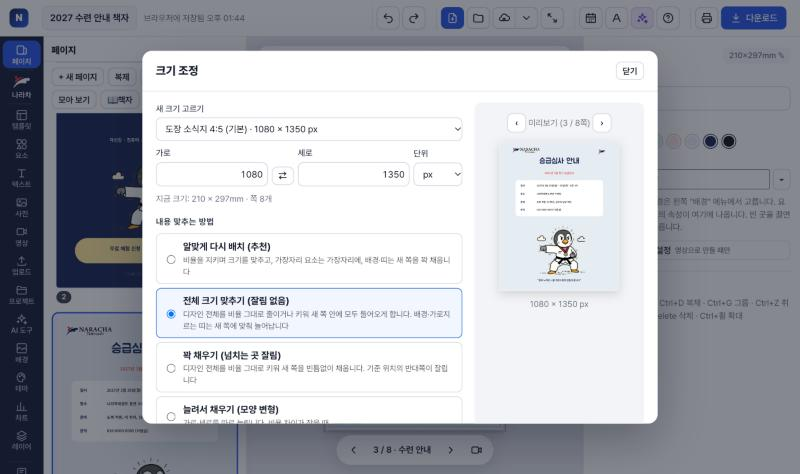
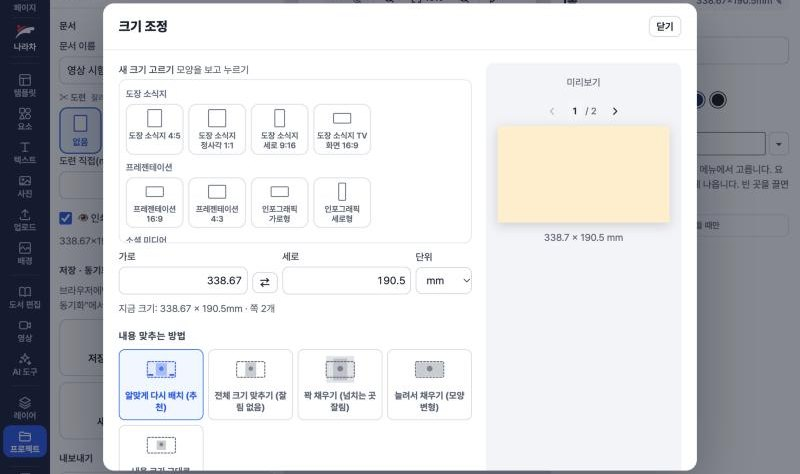
그림으로 고르기 마무리(넘김 효과 견본·고르기 창, 크기 조정 모양 카드, 상장·출석부 안내 줄임, 달력 선 굵기), AI 모델 카드 연결, 매뉴얼·작업인계 (20261123.1759)

diff --git a/app.js b/app.js
@@ -1638,7 +1638,7 @@ function renderVideoSide(body) {
     h = videoTplHTML();
   } else {
     h = `<div class="pk-lb">⏱ 기본 장면 길이</div>${proxyPick('#vdDur', Number(V.dur), [2, 3, 4, 5, 6, 7, 8, 10].map(v => [v, '', v + '초']), 'txt')}<select id="vdDur" hidden>${[2, 3, 4, 5, 6, 7, 8, 10].map(v => `<option value="${v}" ${Number(V.dur) === v ? 'selected' : ''}>${v}초</option>`).join('')}</select>
-    <div class="grid2"><label class="f"><span>기본 넘김 효과</span><select id="vdTrans">${VIDEO.TRANS.map(([v, t]) => `<option value="${v}" ${V.trans === v ? 'selected' : ''}>${t}</option>`).join('')}</select></label></div>
+    <div class="grid2"></div><div class="pk-lb">◆ 기본 넘김 효과 <small>장면이 바뀔 때 — 쪽마다 바꾸려면 타임라인의 ◆</small></div><div class="pk trmini">${VIDEO.TRANS_CATS.map(([ck, ct, vs]) => vs.map(v => { const nm = (VIDEO.TRANS.find(t => t[0] === v) || [0, v])[1], u = trStill(v), on = V.trans === v; return `<button type="button" class="pk-b${on ? ' on' : ''}" data-proxy="#vdTrans" data-val="${v}" title="${esc(ct + ' — ' + nm)}"><span class="pk-ic">${u ? `<img src="${u}" alt="">` : '◆'}</span><span class="pk-t">${esc(nm)}</span></button>`; }).join('')).join('')}</div><select id="vdTrans" hidden>${VIDEO.TRANS.map(([v, t]) => `<option value="${v}" ${V.trans === v ? 'selected' : ''}>${t}</option>`).join('')}</select>
     <div class="grid2"></div><div class="pk-lb">⇄ 기본 넘김 길이</div>${proxyPick('#vdTurn', Number(V.turn), [[0.3, '🐇', '0.3초', '아주 빠르게'], [0.5, '', '0.5초', '빠르게'], [0.8, '▶', '0.8초', '보통'], [1, '', '1초'], [1.2, '🐢', '1.2초', '천천히']], 'txt')}<select id="vdTurn" hidden>${[0.3, 0.5, 0.8, 1, 1.2].map(v => `<option value="${v}" ${Number(V.turn) === v ? 'selected' : ''}>${v}</option>`).join('')}</select>
     <div class="pk-lb">🎞 화질</div>${proxyPick('#vdQ', V.q === '720' || V.q === '2160' ? V.q : '1080', [['720', '📱', '720p', '가볍게 — 휴대폰·단톡방'], ['1080', '💻', '1080p', '기본 — 유튜브·밴드'], ['2160', '📺', '4K', '큰 TV']], 'txt')}<select id="vdQ" hidden><option value="1080" ${V.q !== '720' && V.q !== '2160' ? 'selected' : ''}>1080</option><option value="720" ${V.q === '720' ? 'selected' : ''}>720</option><option value="2160" ${V.q === '2160' ? 'selected' : ''}>2160</option></select>
     <div class="grid2"><div><div class="pk-lb">초당 장면 수</div>${proxyPick('#vdFps', Number(V.fps || 30), [[24, '🎬', '24', '24fps — 영화 느낌'], [30, '▶', '30', '30fps — 기본'], [60, '✨', '60', '60fps — 부드럽게']], 'txt')}<select id="vdFps" hidden><option value="30" ${Number(V.fps || 30) === 30 ? 'selected' : ''}>30</option><option value="60" ${Number(V.fps) === 60 ? 'selected' : ''}>60</option><option value="24" ${Number(V.fps) === 24 ? 'selected' : ''}>24</option></select></div><label class="vd-chk" style="align-self:end"><input type="checkbox" id="vdLoop" ${V.loop ? 'checked' : ''}> 끝나면 첫 장면으로 <small>(TV 반복)</small></label></div>
@@ -2545,6 +2545,9 @@ function transSamples(i) {
   const card = (c, col, t) => { const g = c.getContext('2d'); g.fillStyle = col; g.fillRect(0, 0, TW, TH); g.strokeStyle = 'rgba(255,255,255,.16)'; g.lineWidth = 5; for (let k = -TH; k < TW; k += 13) { g.beginPath(); g.moveTo(k, TH); g.lineTo(k + TH, 0); g.stroke(); } g.fillStyle = '#fff'; g.font = `800 ${Math.round(Math.min(TW, TH) * 0.5)}px sans-serif`; g.textAlign = 'center'; g.textBaseline = 'middle'; g.fillText(t, TW / 2, TH / 2 + 1); };
   card(a, '#24304f', 'A'); card(b, '#d8453a', 'B'); return { a, b, TW, TH };
 }
+/* 넘김 효과 정지 견본 그림 (A·B 카드 사이 중간 모습) — 영상 설정의 기본 넘김 고르기에 씀 */
+const TR_STILL = new Map();
+function trStill(v) { const AR = doc.w / doc.h, key = v + '|' + (AR >= 1 ? 'w' : 't'); if (TR_STILL.has(key)) return TR_STILL.get(key); let u = ''; try { const S = transSamples(-1), c = document.createElement('canvas'); c.width = S.TW; c.height = S.TH; const g = c.getContext('2d'); VIDEO.trans(g, S.a, S.b, v === 'none' ? 0.6 : 0.45, v, S.TW, S.TH, '#ffffff', 7, VIDEO.TRANS_DIRS && VIDEO.TRANS_DIRS[v] ? (v === 'up' ? 'u' : 'l') : ''); u = c.toDataURL('image/png'); } catch (e) {} TR_STILL.set(key, u); return u; }
 function openTransPop(i, anchor) {
   $('#trPop') && $('#trPop').remove(); const pg = doc.pages[i], V = vset(), r = anchor.getBoundingClientRect(), S = transSamples(i);
   const cur0 = () => pg.vtrans || V.trans, nameOf = v => (VIDEO.TRANS.find(t => t[0] === v) || [0, v])[1], catOf = v => (VIDEO.TRANS_CATS.find(c => c[2].includes(v === 'up' ? 'slide' : v)) || VIDEO.TRANS_CATS[0])[0];
@@ -3485,11 +3488,11 @@ function renderInspector() {
     <h3>배경</h3><div class="swrow">${['#ffffff', '#FFE89A', '#E6EDF2', '#DDF3EA', '#FDE7E4', '#F0EBFB', '#1E2B5A', '#1a1a1a'].map(c => `<button class="swb" data-pgbg="${c}" style="background:${c}" title="${c}"></button>`).join('')}</div>
     <label class="f"><span>직접 고르기</span><input type="color" data-k="pg.bg" value="${/^#[0-9a-f]{6}$/i.test(pg.bg) ? pg.bg : '#ffffff'}"></label>
     <p class="hint">그라데이션·패턴 배경은 왼쪽 "배경" 메뉴에서 고릅니다. 요소를 누르면 그 요소의 속성이 여기에 나옵니다. 빈 곳을 끌면 여러 요소를 함께 고릅니다.</p>
-    <details class="fx pgvid" ${tlOn() || (doc.video && doc.video.isCopy) ? 'open' : ''}><summary><span class="anim-h"><svg class="ic"><use href="#i-video"/></svg>영상 장면 설정</span> <small class="hint" style="margin:0">영상으로 만들 때만</small></summary><div class="grid2">${F('보여 주는 시간', 'pg.vdur', pg.vdur || vset().dur, { type: 'slider', min: 1, max: Math.max(20, Math.ceil(Number(pg.vdur || 0))), step: 0.5, unit: '초', def: vset().dur })}${F('다음으로 넘김', 'pg.vtrans', pg.vtrans || '', { type: 'select', options: [['', '기본 (' + VIDEO.TRANS.find(t => t[0] === vset().trans)[1] + ')']].concat(VIDEO.TRANS) })}</div><div class="grid2">${F('넘김 길이', 'pg.vturn', pg.vturn || vset().turn, { type: 'slider', min: 0.2, max: 2, step: 0.1, unit: '초', def: vset().turn })}</div><div class="pk-lb">🎥 카메라</div>${proxyPick('select[data-k="pg.vcam"]', pg.vcam || '', [['', '⏹', '없음'], ['in', '🔍+', '다가가기', '천천히 다가가기'], ['out', '🔍−', '물러나기', '천천히 물러나기'], ['left', '⬅', '왼쪽', '왼쪽으로 흐르기'], ['right', '➡', '오른쪽', '오른쪽으로 흐르기']], 'txt')}<div hidden>${F('카메라', 'pg.vcam', pg.vcam || '', { type: 'select', options: [['', '없음']].concat(VIDEO.CAMS.slice(1)) })}</div><div class="row" style="gap:6px"><button class="btn sm" id="pgVplay"><svg class="ic"><use href="#i-play"/></svg>이 쪽부터 미리보기</button><button class="btn sm" id="pgVtab">영상 메뉴</button></div></details>
+    <details class="fx pgvid" ${tlOn() || (doc.video && doc.video.isCopy) ? 'open' : ''}><summary><span class="anim-h"><svg class="ic"><use href="#i-video"/></svg>영상 장면 설정</span> <small class="hint" style="margin:0">영상으로 만들 때만</small></summary><div>${F('보여 주는 시간', 'pg.vdur', pg.vdur || vset().dur, { type: 'slider', min: 1, max: Math.max(20, Math.ceil(Number(pg.vdur || 0))), step: 0.5, unit: '초', def: vset().dur })}</div><div><div class="pk-lb">◆ 다음으로 넘김</div><button type="button" class="pk-b pk-trbtn" id="pgTrPick" title="넘김 효과 고르기 — 견본이 움직입니다">${(() => { const v = pg.vtrans || vset().trans, u = trStill(v); return `${u ? `<img src="${u}" alt="">` : ''}<span class="pk-t">◆ ${esc((VIDEO.TRANS.find(t => t[0] === v) || [0, v])[1])}${pg.vtrans ? '' : ' (기본)'}</span>`; })()}</button></div><div hidden>${F('다음으로 넘김', 'pg.vtrans', pg.vtrans || '', { type: 'select', options: [['', '기본']].concat(VIDEO.TRANS) })}</div><div class="grid2">${F('넘김 길이', 'pg.vturn', pg.vturn || vset().turn, { type: 'slider', min: 0.2, max: 2, step: 0.1, unit: '초', def: vset().turn })}</div><div class="pk-lb">🎥 카메라</div>${proxyPick('select[data-k="pg.vcam"]', pg.vcam || '', [['', '⏹', '없음'], ['in', '🔍+', '다가가기', '천천히 다가가기'], ['out', '🔍−', '물러나기', '천천히 물러나기'], ['left', '⬅', '왼쪽', '왼쪽으로 흐르기'], ['right', '➡', '오른쪽', '오른쪽으로 흐르기']], 'txt')}<div hidden>${F('카메라', 'pg.vcam', pg.vcam || '', { type: 'select', options: [['', '없음']].concat(VIDEO.CAMS.slice(1)) })}</div><div class="row" style="gap:6px"><button class="btn sm" id="pgVplay"><svg class="ic"><use href="#i-play"/></svg>이 쪽부터 미리보기</button><button class="btn sm" id="pgVtab">영상 메뉴</button></div></details>
     <details class="bk-more"><summary>⌨ 단축키</summary><div class="kbd-grid">${[['T', '글자 넣기'], ['P', '펜'], ['Ctrl+D', '복제'], ['Ctrl+G', '묶기'], ['Ctrl+Z', '되돌리기'], ['← → ↑ ↓', '옮기기'], ['Delete', '지우기'], ['Ctrl+휠', '확대']].map(([k, t]) => `<span><kbd>${k}</kbd>${t}</span>`).join('')}</div></details>`;
     if (doc.bookCover) { const v9 = ins.querySelector('.pgvid'); if (v9) v9.remove(); const h9 = ins.querySelector('h2'); if (h9 && !ins.querySelector('.bk-pginfo')) h9.insertAdjacentHTML('afterend', '<div class="bk-pginfo"><b>표지 펼침면</b><span>뒷날개·뒤표지·책등·앞표지·앞날개 한 장 — 책등·날개는 왼쪽 「도서 편집」에서 맞춥니다</span></div>'); }
     if (doc.book && doc.book.bookMode) { const v9 = ins.querySelector('.pgvid'); if (v9) v9.remove(); const kind9 = pg.toc ? ['차례 쪽', '장·절 제목에서 저절로 만들어집니다'] : pg.blank ? ['비워 둔 쪽', '다음 장을 오른쪽(홀수) 쪽에서 시작하려고 저절로 생긴 쪽입니다'] : pg.part ? ['부 나눔 쪽', '원고의 부 제목([부])에서 저절로 — 쪽 번호·머리글 없음'] : pg.flow ? (pg.chapOpen ? ['장 시작 쪽', '원고의 장 제목(#)에서 시작합니다'] : ['본문 쪽', '원고에서 저절로 짜인 쪽입니다']) : pg.back ? ['뒷붙이 쪽', '판권 등 책 끝에 붙는 쪽'] : ['직접 꾸미는 쪽', '표지·속표지처럼 자유롭게 꾸미는 쪽']; const h9 = ins.querySelector('h2'); if (h9) h9.insertAdjacentHTML('afterend', `<div class="bk-pginfo"><b>${kind9[0]}</b><span>${kind9[1]}</span>${(pg.flow || pg.toc) && !pg.blank ? '<button class="btn sm" id="pgBkStory">✎ 원고 열기</button>' : ''}</div>`); const sb9 = ins.querySelector('#pgBkStory'); if (sb9) sb9.addEventListener('click', ev => { ev.stopPropagation(); if (BK()) BK().openStory(); }); } /* 도서 편집: 쪽 종류 안내, 영상 설정은 숨김 */
-    ins.onclick = e => { if (e.target.closest('#pgVplay')) { openVideoPlayer(true); return; } if (e.target.closest('#pgVtab')) { sideTab = 'video'; renderRail(); renderSide(); return; } const b = e.target.closest('[data-pgbg]'); if (b) { pg.bg = b.dataset.pgbg; commit(); rerender(); } };
+    ins.onclick = e => { const tp = e.target.closest('#pgTrPick'); if (tp) { openTransPop(cur, tp); const w = setInterval(() => { if (!$('#trPop')) { clearInterval(w); renderInspector(); } }, 300); return; } /* 넘김 효과 고르기 창 (견본이 움직임) — 닫으면 속성 다시 */ if (e.target.closest('#pgVplay')) { openVideoPlayer(true); return; } if (e.target.closest('#pgVtab')) { sideTab = 'video'; renderRail(); renderSide(); return; } const b = e.target.closest('[data-pgbg]'); if (b) { pg.bg = b.dataset.pgbg; commit(); rerender(); } };
     return;
   }
   if (els.length > 1) {
@@ -3606,6 +3609,7 @@ function renderInspector() {
     <div class="grid2"><label class="f"><span>숫자·요일 글꼴</span>${fontPicker('s.fontNum', s.fontNum)}</label><label class="f"><span>일정 글꼴</span>${fontPicker('s.fontBody', s.fontBody)}</label></div>
     <div class="grid4">${F('일요일 색', 's.sunColor', s.sunColor, { type: 'color' })}${F('토요일 색', 's.satColor', s.satColor, { type: 'color' })}${F('날짜 색', 's.dayColor', s.dayColor, { type: 'color' })}${F('공휴일 색', 's.holColor', s.holColor || s.sunColor, { type: 'color' })}</div>
     <div class="grid4">${F('일요일 칸', 's.sunBg', s.sunBg || '#ffffff', { type: 'color' })}${F('안쪽 선', 's.line', s.line, { type: 'color' })}${F('바깥 선', 's.outer', s.outer, { type: 'color' })}${F('메모 색', 's.noteColor', s.noteColor, { type: 'color' })}</div>
+    <div class="pk-lb">선 굵기</div><div class="pk sm">${[['가늘게', 0.1, 0.3], ['보통', 0.2, 0.5], ['굵게', 0.35, 0.8], ['선 없음', 0, 0]].map(([t, a, b]) => { const on = Number(s.lineW) === a && Number(s.outerW) === b; return `<button type="button" class="pk-b${on ? ' on' : ''}" data-calln="${a},${b}" title="${t} — 안쪽 ${a} · 바깥 ${b}"><span class="pk-ic">${VSV('0 0 26 20', b ? `<rect x="2" y="2" width="22" height="16" rx="1" stroke-width="${Math.max(0.5, b * 2.2)}"/><path d="M2 10h22M9.3 2v16M16.6 2v16" stroke-width="${Math.max(0.3, a * 2.2)}"/>` : '<rect x="2" y="2" width="22" height="16" rx="1" stroke-width=".6" stroke-dasharray="1.5 1.5" opacity=".5"/>', 26, 20)}</span><span class="pk-t">${t}</span></button>`; }).join('')}</div>
     <div class="grid3">${F('안쪽 선 두께', 's.lineW', s.lineW, { type: 'number', step: 0.05, min: 0 })}${F('바깥 선 두께', 's.outerW', s.outerW, { type: 'number', step: 0.05, min: 0 })}${F('칸 여백(mm)', 's.cellPad', s.cellPad, { type: 'number', step: 0.2, min: 0 })}</div>
     <div class="row">${F('요일 줄 보이기', 's.showWd', s.showWd, { type: 'check' })}${F('공휴일 표시', 's.showHol', s.showHol, { type: 'check' })}${F('공휴일 이름', 's.showHolName', s.showHolName, { type: 'check' })}</div><div class="pk-lb">음력 표시</div>${vpick('s.lunar', s.lunar || '', [['', '<b class="pk-cell">15</b>', '안 함'], ['key', '<b class="pk-cell">15<small>음1</small></b>', '1일·15일', '음력 1일·15일만'], ['all', '<b class="pk-cell">15<small>4.8</small></b>', '매일', '매일 (작게)']])}<button class="btn sm" data-set="s.sunBg:">일요일 칸 색 없음</button>` + geo;
   } else if (el.type === 'mini') {
@@ -3645,6 +3649,7 @@ function renderInspector() {
     if (b.dataset.tfi2) { const k = b.dataset.tfi2; selEls().forEach(x => { if (x.type === 'text') x[k] = !x[k]; }); commit(); rerender(); return; }
     if (b.dataset.fp) { openFontPop(b); return; }
     if (b.dataset.toggle) { el.locked = !el.locked; commit(); renderOverlay(); renderInspector(); return; }
+    if (b.dataset.calln) { const [a, c] = b.dataset.calln.split(',').map(Number); selEls().filter(x => x.type === 'cal').forEach(x => { x.s = Object.assign({}, x.s || {}, { lineW: a, outerW: c }); }); commit(); rerender(); return; } /* 달력 선 굵기 한 번에 */
     if (b.dataset.arw) { const [a0, e0] = b.dataset.arw; selEls().filter(x => x.type === 'shape').forEach(x => { x.arrowStart = a0 === '1'; x.arrowEnd = e0 === '1'; }); commit(); rerender(); return; }
     if (b.dataset.setv != null) { const i = b.dataset.setv.indexOf(':'), k = b.dataset.setv.slice(0, i); let v; try { v = JSON.parse(b.dataset.setv.slice(i + 1)); } catch (er) { v = b.dataset.setv.slice(i + 1); } selEls().filter(x => x.type === el.type).forEach(x => setK(x, k, v)); commit(); rerender(); return; } /* 그림 고르기 단추 — 같은 종류를 여럿 골랐으면 모두 */
     if (b.dataset.set != null) { const i = b.dataset.set.indexOf(':'); const k = b.dataset.set.slice(0, i), v = b.dataset.set.slice(i + 1); if (k === 'chartColors') el.colors = v.split(',').map(s => s.trim()); else setK(el, k, v); commit(); rerender(); return; }
@@ -3710,6 +3715,7 @@ const RS_IC = (() => { const fr = '<rect x="2" y="7" width="36" height="20" rx="
   return { fit: sv(D(13, 9, 14, 16) + '<rect x="2" y="7" width="36" height="20" fill="currentColor" stroke="none" opacity=".12"/><path d="M4 24h5M31 24h5" stroke-width="2"/>'), contain: sv(D(13, 8, 14, 18)), cover: sv('<rect x="2" y="-4" width="36" height="42" fill="currentColor" stroke="none" opacity=".18"/>' + D(11, 3, 18, 28).replace(/opacity=".33"/, 'opacity=".25"')), stretch: sv(D(3, 8, 34, 18)), keep: sv(D(14, 11, 12, 12)) }; })();
 /* 그림 단추 → 숨긴 select의 값을 바꾸고 change를 보냄 (기존 처리 그대로 씀) */
 function proxyPick(sel, cur, items, cls) { return `<div class="pk${cls ? ' ' + cls : ''}">${items.map(([v, ic, t, tip]) => { const on = String(cur) === String(v); return `<button type="button" class="pk-b${on ? ' on' : ''}" data-proxy="${esc(sel)}" data-val="${esc(String(v))}" title="${esc(tip || t)}" aria-pressed="${on}">${ic ? `<span class="pk-ic">${ic}</span>` : ''}${t ? `<span class="pk-t">${t}</span>` : ''}</button>`; }).join('')}</div>`; }
+window.proxyPick = proxyPick; /* aichat.js 등 다른 파일에서도 그림 단추를 씀 */
 document.addEventListener('click', e => { const b = e.target.closest && e.target.closest('[data-proxy]'); if (!b) return; const root = b.closest('dialog') || b.closest('.inspector') || document; const t = root.querySelector(b.dataset.proxy); if (!t) return; t.value = b.dataset.val; t.dispatchEvent(new Event('input', { bubbles: true })); t.dispatchEvent(new Event('change', { bubbles: true })); b.parentElement.querySelectorAll('.pk-b').forEach(x => { x.classList.toggle('on', x === b); x.setAttribute('aria-pressed', String(x === b)); }); });
 function setK(obj, k, v) { if (k === 'size' && obj && obj.fitText && Number(v) > 0) { obj.fitMax = Number(v); fitCache.delete(obj.id); } /* 자동 맞춤 글자: 고른 크기가 새 최대 */ const ks = k.split('.'); let a = obj; for (let i = 0; i < ks.length - 1; i++) { if (a[ks[i]] == null) a[ks[i]] = ks[i + 1].match(/^\d+$/) ? [] : {}; a = a[ks[i]]; } a[ks[ks.length - 1]] = v; }
 $('#inspector').addEventListener('change', e => { const k = e.target.dataset.k; if (k === 'grp.w' || k === 'grp.h') { const ev = new Event('input', { bubbles: true }); ev.__apply = true; e.target.dispatchEvent(ev); } }, true);
@@ -5900,7 +5906,7 @@ async function openGradeImport() {
     const on = o.list.filter(x => !gradeImp.off[x.name]);
     const when = x => x.how === 'done' ? x.d : gradeImp.date;
     d.innerHTML = `<div class="dhead"><h2>📥 심사 회차에서 급증 만들기 <small>${measSrv && measSrv.att ? '관리프로그램 서버 최신' : '이 브라우저에 남은 자료'}</small></h2><button class="btn sm" data-close>닫기</button></div><div class="dbody">
-      <p class="hint" style="margin-top:0">관리프로그램 <b>심사확정자</b>는 <b>합격했다고 보고</b> 승급할 급수(관리 앱 규칙: 한 번에 2급씩)로, 이미 <b>심사 완료</b>(학적부 승급 이력)된 사람은 실제 급수로 넣습니다. 지금 재원생 · 품(단) 승급 대상만, 국기원 확정자는 뺍니다. 왼쪽 아래 다음 품(단) 응시 예정일은 ${cyc ? `<b>남은 심사 수 × ${esc(cyc)}개월</b>(상장 패널에서 고정한 값)` : '운영규정대로 사람마다(심사 한 번에 2급 · 등록 횟수로 간격 · 국기원 연한)'} 계산합니다.</p>
+      <p class="hint" style="margin-bottom:2px">✅ 심사확정자 = 합격으로 보고 승급할 급수 · 🎓 품(단) 대상만</p><details class="bk-more"><summary>ⓘ 자세히</summary><div>관리프로그램 <b>심사확정자</b>는 <b>합격했다고 보고</b> 승급할 급수(관리 앱 규칙: 한 번에 2급씩)로, 이미 <b>심사 완료</b>(학적부 승급 이력)된 사람은 실제 급수로 넣습니다. 지금 재원생 · 품(단) 승급 대상만, 국기원 확정자는 뺍니다. 왼쪽 아래 다음 품(단) 응시 예정일은 ${cyc ? `<b>남은 심사 수 × ${esc(cyc)}개월</b>(상장 패널에서 고정한 값)` : '운영규정대로 사람마다(심사 한 번에 2급 · 등록 횟수로 간격 · 국기원 연한)'} 계산합니다.</div></details>
       <div class="grid2"><label class="f"><span>심사 회차</span><select id="giYm">${RD.map(x => { const c = x.list.filter(y => y.how === 'conf').length; return `<option value="${x.ym}" ${x.ym === o.ym ? 'selected' : ''}>${x.ym.slice(2, 4)}-${x.ym.slice(5, 7)}회차 · ${c ? `확정 ${c}명` : ''}${c && x.list.length - c ? ' · ' : ''}${x.list.length - c ? `완료 ${x.list.length - c}명` : ''}${!x.list.length ? '대상 없음' : ''}${x.ym >= today ? ' (진행 중)' : ''}</option>`; }).join('')}</select></label>
       <label class="f"><span>급증 날짜 = 심사일 ${o.days.length ? `<small>(일정: ${o.days.map(md).join('·')})</small>` : ''}</span><input type="date" id="giDate" value="${esc(gradeImp.date)}"></label></div>
       <h3>${o.list.length}명 <small>${nConf ? `확정 ${nConf}명(합격 가정)` : ''}${nConf && nDone ? ' · ' : ''}${nDone ? `완료 ${nDone}명` : ''} — 체크를 풀면 빠짐</small></h3>
@@ -6261,7 +6267,7 @@ function renderAttSide(body) {
   <h3>③ 출력</h3>
   <button class="btn primary full" data-ax="printnow" ${nOn ? '' : 'disabled'} title="출석부는 왼쪽 값대로 이미 오른쪽에 만들어져 있습니다 — 출력 창으로 바로">🖨 출석부 출력하기 (${nOn}장)</button>
   <div class="row" style="gap:6px;margin-top:6px;flex-wrap:wrap"><button class="btn sm" data-ax="pdf" ${made ? '' : 'disabled'}>PDF로 저장</button><button class="btn sm" data-ax="layout" ${page() && page().att ? '' : 'disabled'} title="지금 출석부 쪽에서 글 상자·사진을 옮기거나 글꼴·크기를 바꾼 뒤 누르면, 모든 출석부에 같은 배치로">이 쪽 배치를 모든 출석부에</button>${Object.keys(A.layout).length ? '<button class="btn sm" data-ax="layoutreset">배치 처음대로</button>' : ''}</div>
-  <p class="hint" style="margin-top:8px">출석부는 왼쪽에서 고르는 대로 오른쪽에 바로 만들어집니다. 출력 창은 <b>A4 세로 맨 위·실제 크기</b>(엡손에 맞춘 기본 자리)로 열리니, 출석부 용지를 A4처럼 위쪽부터 넣으세요. 어긋나면 출력 창의 <b>위치 보정</b>(가로·세로 mm) — 이 PC가 출석부용으로 따로 기억합니다. 이름이 길면 글자가 저절로 줄어듭니다.</p></div>`;
+  <p class="hint" style="margin-bottom:2px">🖨 A4 세로 맨 위 · 실제 크기 · 용지를 위쪽부터</p><details class="bk-more"><summary>ⓘ 자세히</summary><div>출석부는 왼쪽에서 고르는 대로 오른쪽에 바로 만들어집니다. 출력 창은 <b>A4 세로 맨 위·실제 크기</b>(엡손에 맞춘 기본 자리)로 열리니, 출석부 용지를 A4처럼 위쪽부터 넣으세요. 어긋나면 출력 창의 <b>위치 보정</b>(가로·세로 mm) — 이 PC가 출석부용으로 따로 기억합니다. 이름이 길면 글자가 저절로 줄어듭니다.</div></details></div>`;
   const pv = $('#aprev'); if (pv) { const r = rows[attPrev] || {}, tmp = attPage(r, attPrev), bw = pv.clientWidth || 260, kk = bw / (doc.w * MM); pv.style.height = doc.h * MM * kk + 'px'; tmp.els.forEach(e => { if (e.attFrame) { e.hidden = false; if (!A.printFrame) e.opacity = 0.45; } });
     const draw = () => { pv.innerHTML = `<div style="transform:scale(${kk});transform-origin:0 0;position:absolute;left:0;top:0">${tmpSheet(ATT_W, ATT_H, tmp.els, '#ffffff')}</div>`; prevFitWatch(pv, ATT_W, ATT_H); }; draw(); fitTextOffscreen(tmp.els).then(() => { if (document.body.contains(pv)) draw(); }); }
 }
@@ -7007,7 +7013,7 @@ function renderResize() {
   const prevPage = ok ? resizedDoc({ w: doc.w, h: doc.h, pages: [srcPg] }, W, H, S.mode, S.A).pages[0] : null;
   const box = 220, k = ok ? Math.min(box / W, box / H) : 1;
   $('#rsBody').innerHTML = `<div class="rsgrid"><div>
-    <label class="f"><span>새 크기 고르기</span><select id="rsFmt"><option value="">직접 입력</option>${ND_GROUPS.filter(g => g[0] !== 'rec').map(([g, t]) => `<optgroup label="${t}">${FORMATS.filter(f => f[2] === g).map(f => `<option value="${f[0]}" ${S.fmt === f[0] ? 'selected' : ''}>${esc(f[1])} · ${fmtLabel(f)}</option>`).join('')}</optgroup>`).join('')}</select></label>
+    <label class="f" style="margin-bottom:2px"><span>새 크기 고르기 <small class="hint" style="margin:0">모양을 보고 누르기</small></span></label><div class="rsfmts">${ND_GROUPS.filter(g => g[0] !== 'rec').map(([g, t]) => { const L = FORMATS.filter(f => f[2] === g); if (!L.length) return ''; return `<div class="pk-lb">${esc(t)}</div>${proxyPick('#rsFmt', S.fmt, L.map(f => { const w = Number(f[3]) || 1, h = Number(f[4]) || 1, k = 22 / Math.max(w, h); return [f[0], VSV('0 0 26 26', `<rect x="${r1(13 - w * k / 2)}" y="${r1(13 - h * k / 2)}" width="${r1(Math.max(2, w * k))}" height="${r1(Math.max(2, h * k))}" rx="1" fill="#fff" stroke-width="1.1"/>`, 26, 26), String(f[1]).replace(/\s*[\d.]+\s*[×x]\s*[\d.]+.*$/, '').replace(/\s*\(.*?\)/g, ''), `${f[1]} · ${fmtLabel(f)}`]; }), 'rsf')}`; }).join('')}</div><select id="rsFmt" hidden><option value="">직접 입력</option>${ND_GROUPS.filter(g => g[0] !== 'rec').map(([g, t]) => `<optgroup label="${t}">${FORMATS.filter(f => f[2] === g).map(f => `<option value="${f[0]}" ${S.fmt === f[0] ? 'selected' : ''}>${esc(f[1])} · ${fmtLabel(f)}</option>`).join('')}</optgroup>`).join('')}</select></label>
     <div class="row"><label class="f" style="flex:1"><span>가로</span><input type="number" id="rsW" value="${S.w}" step="0.5"></label><button class="btn sm" id="rsSwap" title="가로·세로 바꾸기" style="margin-top:18px">⇄</button><label class="f" style="flex:1"><span>세로</span><input type="number" id="rsH" value="${S.h}" step="0.5"></label><label class="f" style="width:72px"><span>단위</span><select id="rsU"><option value="mm" ${S.unit === 'mm' ? 'selected' : ''}>mm</option><option value="px" ${S.unit === 'px' ? 'selected' : ''}>px</option></select></label></div>
     <p class="hint" style="margin:0">지금 크기: ${docSizeLabel(' × ')} · 쪽 ${doc.pages.length}개</p>
     <h3>내용 맞추는 방법</h3>

diff --git a/manual.js b/manual.js
@@ -79,7 +79,7 @@ window.NC_MANUAL = [
         marks: [[55.7, 41.3, '고른 글'], [83.4, 21.3, '문단 스타일 목록 — 고르면 같은 모양'], [88.8, 21.3, '+ 저장'], [94.6, 21.3, '모두에 반영']] },
       { t: '장평·글자 서식 (인디자인 문자 패널처럼)', d: '글을 고르고 오른쪽 글자 속성의 <b>장평</b>(글자 폭 50~200%)으로 글자를 좁히거나 넓힙니다 — 바로 아래 <b>80·90·95·100·110%</b> 단추로 빠르게(제목·표 글을 한 줄에 넣을 때 90%를 많이 씀). <b>세로 비율</b>은 글자 높이, <b>글자 서식 더 보기</b>에는 <b>기울기</b>(기울임체가 없는 한글 글꼴을 비스듬히), <b>낱말 간격</b>, <b>첫 줄 들여쓰기</b>(단락마다), <b>커닝</b>(비례 — 글자 모양대로 붙임), <b>작은 대문자</b>(영문)가 있습니다. 장평·세로 비율·기울기를 바꿔도 상자 크기는 그대로이고 줄바꿈만 다시 맞춰집니다. 글꼴 단추를 누르면 열리는 목록은 <b>같은 단추를 한 번 더 누르면</b> 닫힙니다.', img: 'm65-text-scale.jpg',
         marks: [[74, 16, '장평'], [79, 24.3, '빠른 장평 단추'], [76, 30, '글자 서식 더 보기'], [45.6, 54.4, '고른 글']] },
-      { t: '크기 바꾸기 (포스터 → SNS 등)', d: '위 막대 문서 이름 옆 <b>크기 표시</b>(또는 <b>⋯ 더보기 → 크기 조정</b>, 오른쪽 속성의 크기 표시)에서 새 크기를 고르고 내용 맞추는 방법을 고릅니다: <b>알맞게 다시 배치</b>(추천) · <b>전체 크기 맞추기</b>(잘림 없음) · <b>꽉 채우기</b>(넘치는 곳 잘림) · 늘려서 채우기 · 크기 그대로. 기준 위치 9곳과 쪽마다 미리 보기로 확인한 뒤 <b>이 디자인 크기 바꾸기</b> 또는 <b>새 크기로 사본</b>. 그림 하나는 오른쪽 버튼 → <b>쪽 꽉 채우기</b>로 바로 맞춥니다.', go: [['resize', '크기 조정 열기']], img: 'm23-resize.jpg', marks: [[38.6, 27, '새 크기 고르기'], [38.6, 66, '내용 맞추는 방법'], [70, 45, '쪽마다 미리 보기 (‹ ›)']] },
+      { t: '크기 바꾸기 (포스터 → SNS 등)', d: '위 막대 문서 이름 옆 <b>크기 표시</b>(또는 <b>⋯ 더보기 → 크기 조정</b>, 오른쪽 속성의 크기 표시)에서 새 크기를 고르고 내용 맞추는 방법을 고릅니다: <b>알맞게 다시 배치</b>(추천) · <b>전체 크기 맞추기</b>(잘림 없음) · <b>꽉 채우기</b>(넘치는 곳 잘림) · 늘려서 채우기 · 크기 그대로. 기준 위치 9곳과 쪽마다 미리 보기로 확인한 뒤 <b>이 디자인 크기 바꾸기</b> 또는 <b>새 크기로 사본</b>. 그림 하나는 오른쪽 버튼 → <b>쪽 꽉 채우기</b>로 바로 맞춥니다.', go: [['resize', '크기 조정 열기']], img: 'm23-resize.jpg', marks: [[36, 33, '새 크기 — 모양 카드를 누르기'], [36, 81.6, '내용 맞추는 방법 — 전/후 그림'], [73, 23.4, '쪽마다 미리 보기 (‹ 번호 ›)']] },
       { t: '앨범 프레임 (사진 코너·테이프·네컷)', d: '<b>요소 → 앨범 프레임</b>에 캔바·미리캔버스처럼 앨범 사진 코너(검정·금색·흰색·남색), 크라프트 앨범, 꺾쇠, 마스킹테이프, 꽃 모서리(봄꽃·수국·해바라기·단풍·겨울), 하트·별 모서리, 바느질 테두리, 클립·압정 사진, <b>네컷 사진</b>, 폴라로이드 겹침, 아치 사진, 필름이 있습니다. 넣으면 <b>한 묶음</b>으로 들어가 함께 옮기고 키웁니다. 모서리를 하나씩 고치려면 <b>그룹 해제</b>(⌘⇧G)를 누르세요 — 모서리·테이프·사진을 따로 옮기고 크기·색을 바꿀 수 있습니다. <b>모서리만</b> 묶음은 이미 넣은 사진 위에 얹습니다. 사진 자리는 고른 뒤 사진 패널 그림을 누르면 바꿔 들어갑니다.', img: 'm39-album-frame.jpg',
         marks: [[17, 50, '요소 → 앨범 프레임 (30가지)'], [55, 56, '넣은 프레임 — 한 묶음'], [85, 15.6, '그룹 해제 — 모서리를 하나씩'], [57, 11.6, '도구 막대의 그룹 해제']], go: [['elems', '요소 열기']] },
       { t: 'QR·D-day·도장 정보 넣기', d: '<b>요소 → 🔳 QR</b>에 신청서·밴드·유튜브 주소를 넣으면 QR 코드가 들어갑니다(고른 뒤 "QR 내용·색 고치기"). <b>텍스트 → ⏳ D-day 넣기</b>로 "승급심사까지 D-12"를 넣으면 볼 때·뽑을 때 날짜로 저절로 계산됩니다. <b>🏠 도장 정보</b>에 전화·주소를 저장해 두면 템플릿의 010-0000-0000·주소 자리가 자동으로 채워지고, 번호가 바뀌면 문서 안에서 한꺼번에 바뀝니다.', go: [['qr', 'QR 넣기'], ['dday', 'D-day 넣기'], ['dojang', '도장 정보']], img: 'm24-qr.jpg', marks: [[41, 41, '연결할 주소'], [34, 54, 'QR 색'], [63.6, 47, '미리 보기'], [69.9, 73, '넣기']] },

diff --git a/index.html b/index.html
@@ -16,7 +16,7 @@
 <meta property="og:image" content="https://narachadata.github.io/design/og.png">
 <meta property="og:type" content="website">
 <link rel="stylesheet" href="fonts/fonts.css?v=20261120.1357">
-<link rel="stylesheet" href="app.css?v=20261123.1656">
+<link rel="stylesheet" href="app.css?v=20261123.1759">
 </head>
 <body>
 <svg width="0" height="0" style="position:absolute" aria-hidden="true"><defs>
@@ -215,35 +215,35 @@
 <style id="pageStyle"></style>
 <div class="toast" id="toast" popover="manual" hidden></div>
 
-<script src="version.js?v=20261123.1656"></script>
-<script src="fonts/fonts.js?v=20261123.1656"></script>
-<script src="fonts/webfonts.js?v=20261123.1656"></script>
-<script src="assets.js?v=20261123.1656"></script>
-<script src="assets-brand.js?v=20261123.1656"></script>
-<script src="defaults.js?v=20261123.1656"></script>
-<script src="ai.js?v=20261123.1656"></script>
-<script src="storage.js?v=20261123.1656"></script>
-<script src="live.js?v=20261123.1656"></script>
-<script src="lib.js?v=20261123.1656"></script>
-<script src="calendar.js?v=20261123.1656"></script>
-<script src="templates.js?v=20261123.1656"></script>
-<script src="templates2.js?v=20261123.1656"></script>
-<script src="templates3.js?v=20261123.1656"></script>
-<script src="templates4.js?v=20261123.1656"></script>
-<script src="templates5.js?v=20261123.1656"></script>
-<script src="templates6.js?v=20261123.1656"></script>
-<script src="effects.js?v=20261123.1656"></script>
-<script src="imgedit.js?v=20261123.1656"></script>
-<script src="elements.js?v=20261123.1656"></script>
-<script src="news.js?v=20261123.1656"></script>
-<script src="astream.js?v=20261123.1656"></script>
-<script src="media.js?v=20261123.1656"></script>
-<script src="vtemplates.js?v=20261123.1656"></script>
-<script src="video.js?v=20261123.1656"></script>
-<script src="manual.js?v=20261123.1656"></script>
-<script src="aichat.js?v=20261123.1656"></script>
-<script src="book.js?v=20261123.1656"></script>
-<script src="import.js?v=20261123.1656"></script>
-<script src="app.js?v=20261123.1656"></script>
+<script src="version.js?v=20261123.1759"></script>
+<script src="fonts/fonts.js?v=20261123.1759"></script>
+<script src="fonts/webfonts.js?v=20261123.1759"></script>
+<script src="assets.js?v=20261123.1759"></script>
+<script src="assets-brand.js?v=20261123.1759"></script>
+<script src="defaults.js?v=20261123.1759"></script>
+<script src="ai.js?v=20261123.1759"></script>
+<script src="storage.js?v=20261123.1759"></script>
+<script src="live.js?v=20261123.1759"></script>
+<script src="lib.js?v=20261123.1759"></script>
+<script src="calendar.js?v=20261123.1759"></script>
+<script src="templates.js?v=20261123.1759"></script>
+<script src="templates2.js?v=20261123.1759"></script>
+<script src="templates3.js?v=20261123.1759"></script>
+<script src="templates4.js?v=20261123.1759"></script>
+<script src="templates5.js?v=20261123.1759"></script>
+<script src="templates6.js?v=20261123.1759"></script>
+<script src="effects.js?v=20261123.1759"></script>
+<script src="imgedit.js?v=20261123.1759"></script>
+<script src="elements.js?v=20261123.1759"></script>
+<script src="news.js?v=20261123.1759"></script>
+<script src="astream.js?v=20261123.1759"></script>
+<script src="media.js?v=20261123.1759"></script>
+<script src="vtemplates.js?v=20261123.1759"></script>
+<script src="video.js?v=20261123.1759"></script>
+<script src="manual.js?v=20261123.1759"></script>
+<script src="aichat.js?v=20261123.1759"></script>
+<script src="book.js?v=20261123.1759"></script>
+<script src="import.js?v=20261123.1759"></script>
+<script src="app.js?v=20261123.1759"></script>
 </body>
 </html>

diff --git a/app.css b/app.css
@@ -1809,3 +1809,7 @@ dialog.st-dlg{max-width:1280px;width:96vw}
 .pk-sw2.chk{background:repeating-conic-gradient(#d5d9e0 0 25%,#fff 0 50%) 0 0/8px 8px}
 .kbd-grid{display:grid;grid-template-columns:1fr 1fr;gap:4px 8px}.kbd-grid span{display:flex;align-items:center;gap:6px;font-size:11.5px}.kbd-grid kbd{font:600 10.5px/1 var(--font-ui,system-ui);background:#fff;border:1px solid #cfd5df;border-bottom-width:2px;border-radius:4px;padding:3px 5px;white-space:nowrap}
 .toast{bottom:76px} /* 아래 쪽 넘김 막대(아이콘)를 가리지 않게 그 위에 (팀장님 11/23) */
+.pk.trmini{max-height:236px;overflow:auto;padding:2px}.pk.trmini .pk-b{width:64px;min-width:64px;padding:3px 3px 4px}.pk.trmini img{width:56px;height:auto;max-height:40px;border-radius:4px;display:block}.pk.trmini .pk-t{font-size:10px;white-space:normal;text-align:center;line-height:1.2}
+.pk-trbtn{flex-direction:row;gap:8px;width:100%;justify-content:flex-start}.pk-trbtn img{width:44px;border-radius:4px}
+.rsfmts{max-height:210px;overflow:auto;border:1px solid var(--ui-line,#e3e6eb);border-radius:10px;padding:2px 8px 8px;margin-bottom:8px}.rsfmts .pk-lb{margin:8px 0 4px}.pk.rsf .pk-b{width:66px;min-width:66px;padding:4px 2px}.pk.rsf .pk-t{font-size:10.5px;white-space:normal;text-align:center;line-height:1.2;word-break:keep-all}
+.pk.rsf .pk-b{width:74px;min-width:74px}.pk.rsf .pk-t{display:-webkit-box;-webkit-line-clamp:2;-webkit-box-orient:vertical;overflow:hidden;min-height:2.4em}

diff --git a/version.js b/version.js
@@ -1,1 +1,1 @@
-window.NARACAL_VER = "20261123.1656";
+window.NARACAL_VER = "20261123.1759";

diff --git a/작업인계.md b/작업인계.md
@@ -1488,6 +1488,15 @@
 - 시험(QA): 차트 원형, 달력 5월 단추 → 제목 5월, 일정 색 파랑 점, 흑백 필터 썸네일(실제 클릭) → 고른 표시, 마법사 실루엣·월요일부터, 출력 창 빠른 설정 그림, 설정 탭, 콘솔 오류 없음. 영상 설정 칩은 영상 사본을 만들어야 보여 직접 못 봄(코드는 기존 id 처리 그대로).
 - 매뉴얼 그림 다시: m07(마법사 — 형식 그림, 번호 자리 고침)·m67(출력 창 빠른 설정 그림).
 
+## 2026-11-23 밤 — 그림으로 고르기 마무리 (팀장님 "남은 곳도")
+- **넘김 효과**: 쪽 속성 「영상 장면 설정」의 다음으로 넘김 = 견본 그림 단추 → 누르면 타임라인과 같은 넘김 효과 고르기 창(`openTransPop`, 견본이 움직임, 닫으면 속성 다시). 영상 설정의 기본 넘김 효과 = 32가지 견본 그림 타일(`trStill` — A·B 카드 사이 정지 그림, 캐시). 보여 주는 시간 칸을 한 줄 전체로.
+- **크기 조정 새 크기**: 묶음별(도장 소식지·프레젠테이션·소셜…) 실제 비율 모양 카드(이름 두 줄까지), 숨긴 select로 기존 처리.
+- **긴 안내**: 출석부 패널(🖨 A4 세로 맨 위 · 실제 크기) · 상장 급증 안내(✅ 심사확정자 …) 한 줄 + ⓘ.
+- **달력 선 굵기**: 가늘게·보통·굵게·선 없음 그림 단추(안쪽·바깥 선을 한 번에, `data-calln`).
+- `window.proxyPick` 내보냄(app.js가 IIFE라 aichat.js의 AI 모델 카드가 안 나오던 것).
+- 시험(QA, 실제 클릭): 넘김 단추 → 고르기 창 → 검게 넘김 → 단추 글이 바뀜, 영상 설정 옆으로 밀기·720p, 크기 카드 → 1080×1350, 달력 선 굵게 → 0.35/0.8, 콘솔 오류 없음.
+- 매뉴얼 그림 다시: m23(크기 조정 — 모양 카드, 번호 자리 고침).
+
 # ▶ 다음에 이어 하기 (2026-11-20 낮 작업 종료 — 팀장님은 도장 PC에서 이어 하심)
 1. `git pull` → 이 문서를 읽고 팀장님께 한글로 브리핑 → 아래 남은 일부터.
 2. 오늘(11/20) 한 일 요약: 홍익 삽화 12장·표지·상징 · 휴관 카드 「라차 그림」 13종·승급심사 라차 그림 · 모든 라차 그림 가슴 로고 · 유급자 깃(바깥 빨강·안쪽 검정) 칠하기 · 도복 프롬프트 원칙(문서 3개·AI 스튜디오·메모리) · **2027 PC·휴대폰 배경화면 캘린더** · 2027 문서 덕목 차례 자동 맞춤 · 그림 캐시 버전 · 도구 막대 세로/접기 · Gemini 503 재시도.
@@ -1502,7 +1511,7 @@
    - [상] 팀장님 피드백: 원고에 QR(품새 영상)·표(띠별 기간)·부 제목 넣어 보기, 휴대폰으로 인쇄한 QR 찍어 보기.
    - [중] 도서 편집 다음 후보: 찾아보기 2단·찾아보기 말 고치기 칸, 각주 번호 방식 고르기(책 전체 이어서), 글 감싸기 둘레 여백 고르기, 고른 글자만 장평 (표 칸 합치기·각주·찾아보기·보기 방식은 11/23 오후 끝).
    - [상] 팀장님 피드백: 쪽 넘김 막대(번호 쓰고 Enter)·펼침면/미리 보기·장평 단추·각주/찾아보기를 실제 원고로 써 보기.
-   - [하] 그림으로 고르기 남은 곳: 영상 기본 넘김 효과(33개 select → 넘김 효과 고르기 창으로), 크기 조정 '새 크기' 카드, 상장·출석부 패널의 긴 안내(글 안에 값이 섞여 자동으로 못 줄임), 달력 선 두께 칩.
+   - ~~[하] 그림으로 고르기 남은 곳~~ → 11/23 밤 끝 (넘김 효과·크기 카드·상장/출석부 안내·달력 선 굵기).
    - [상] 팀장님 피드백: 새 세로 메뉴 묶음(테마는 캘린더 안, 차트는 요소 안)·그림 단추가 알아보기 쉬운지.
    - [상] 팀장님 피드백: 실제 PSD·IDML·AI 파일로 가져오기 시험(인쇄소·디자이너에게 받은 파일) — 위치·글꼴·색이 어긋나는 곳 알려 주시면 고침.
    - [중] 다음에 그림을 더 받으면: 메모리 feedback-gemini-prompt-dobok의 11/21 문장(모든 자세 V깃·가슴 무늬 없음·현수막 비움)이 들어간 프롬프트인지 먼저 확인.
